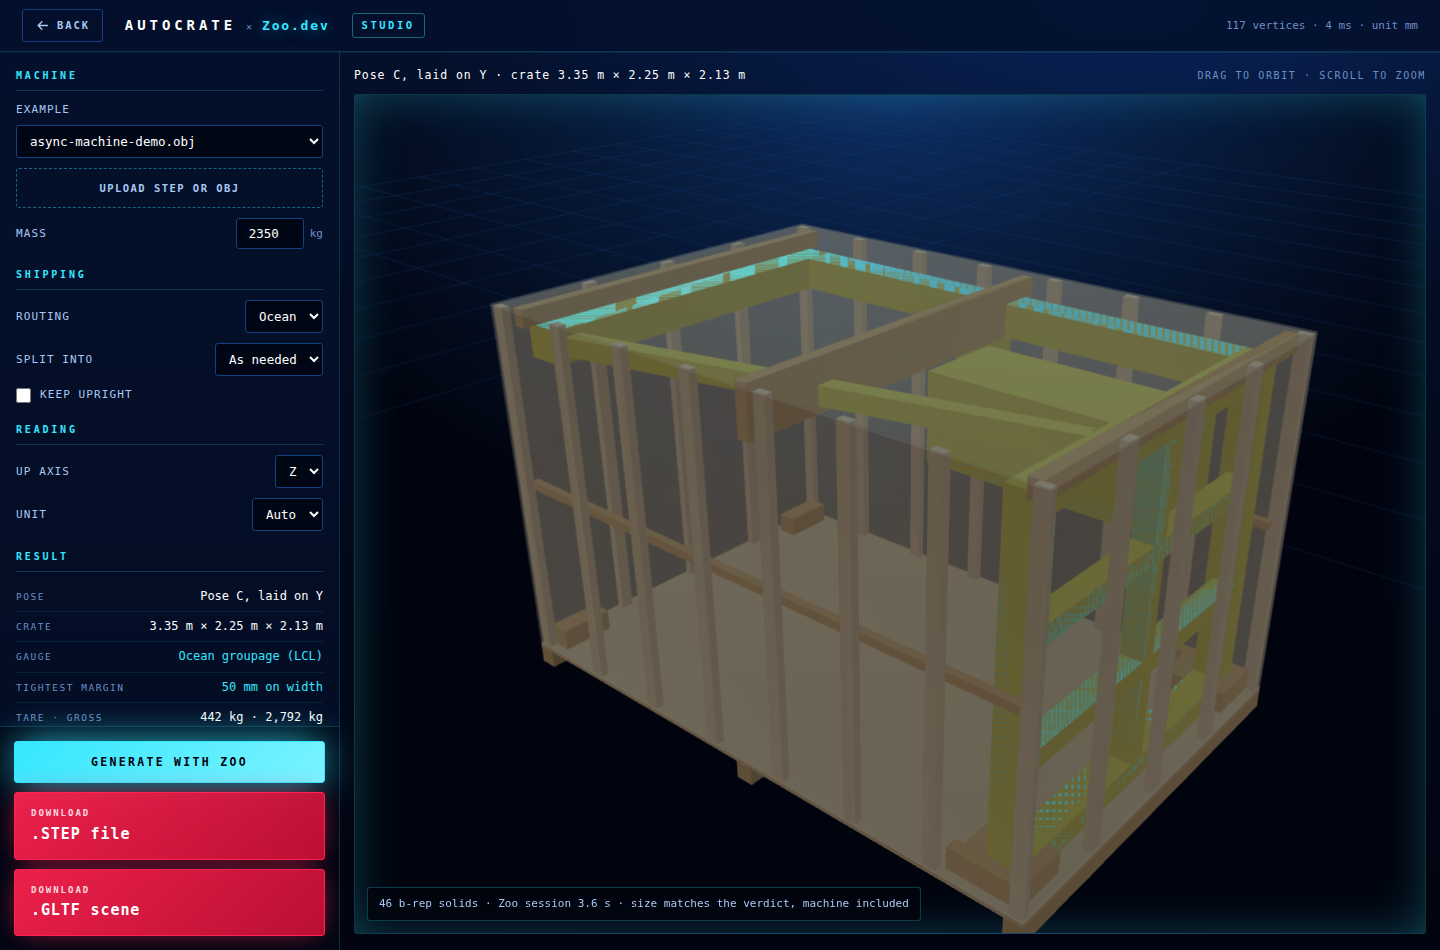
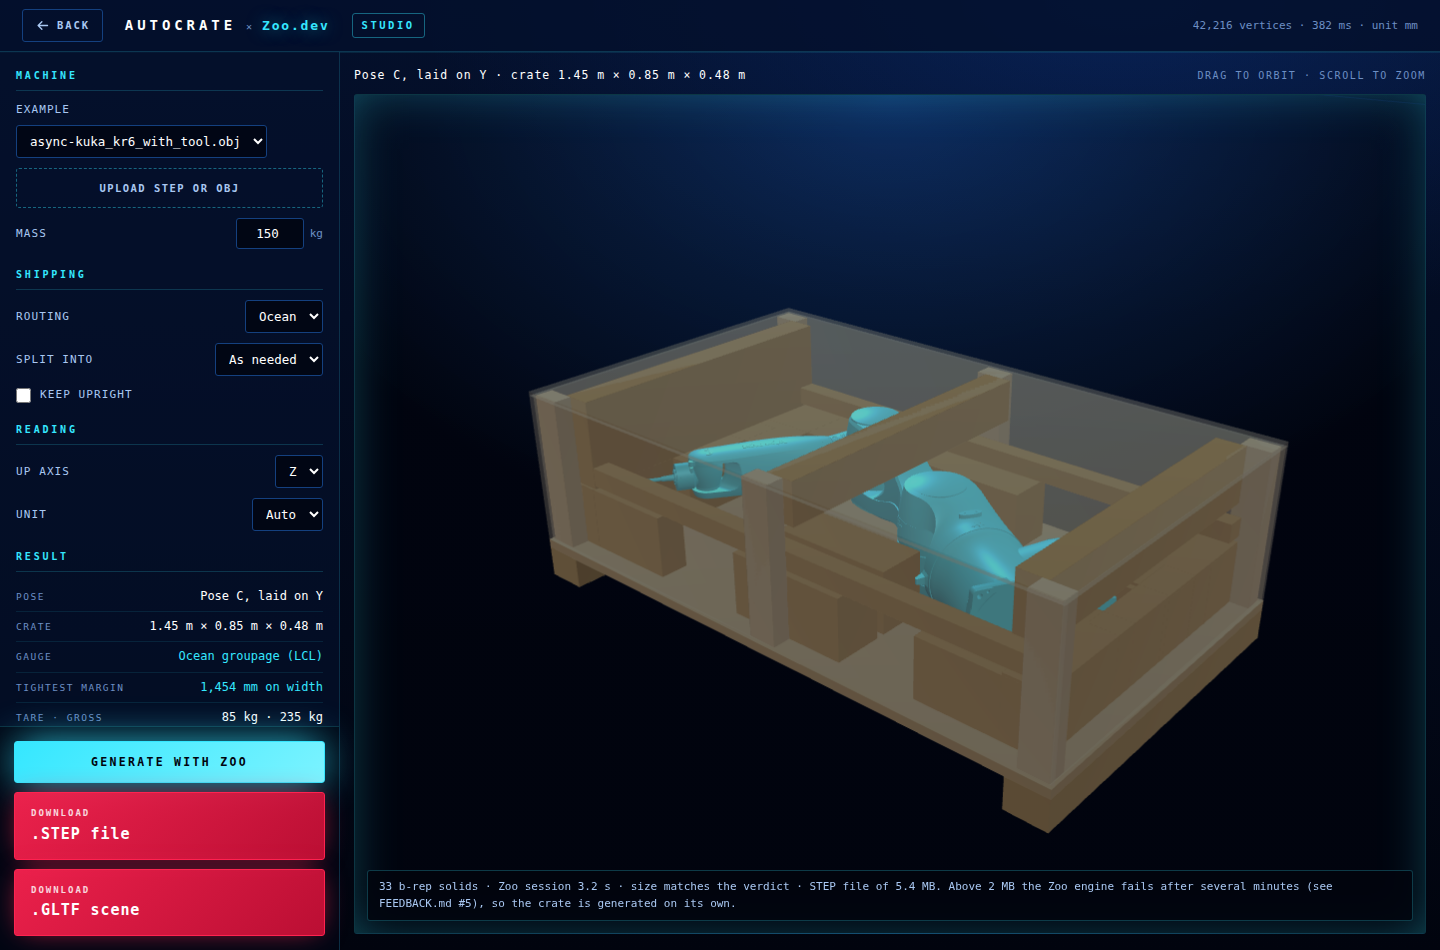
[+] Reshot the studio screenshot on the KUKA KR 6 with tool

diff --git a/public/app.html b/public/app.html
@@ -59,7 +59,7 @@
             <label class="field" for="massKg">
               <span class="field-label">Mass</span>
               <span class="field-unit">
-                <input id="massKg" name="massKg" type="number" value="2350" min="1" max="100000" step="10" />
+                <input id="massKg" name="massKg" type="number" value="150" min="1" max="100000" step="10" />
                 <span class="unit">kg</span>
               </span>
             </label>

diff --git a/README.md b/README.md
@@ -11,7 +11,7 @@ makeathon running 22 July to 5 August 2026.
 
 ![The landing page: what the tool does, and which Zoo APIs it uses](docs/accueil.png)
 
-![The studio: parameters on the left, the generated crate in 3D, and the two exports](docs/atelier.png)
+![The studio, opened on the KUKA KR 6 with its tool: parameters on the left, the generated crate in 3D, and the two exports](docs/atelier.png)
 
 ---
 
